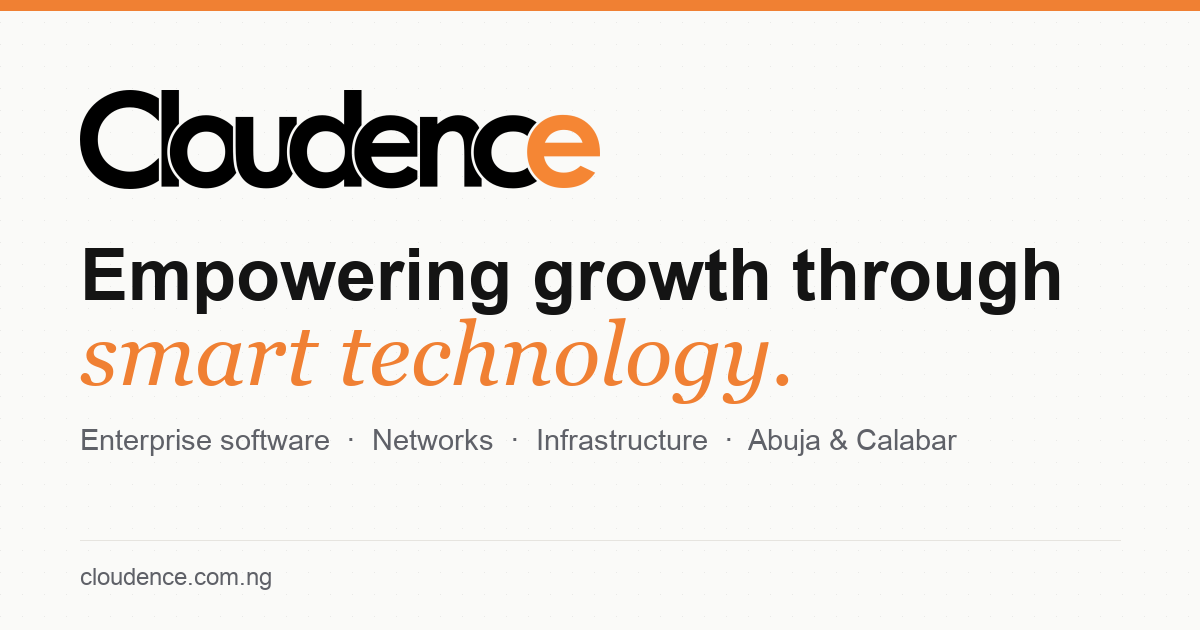
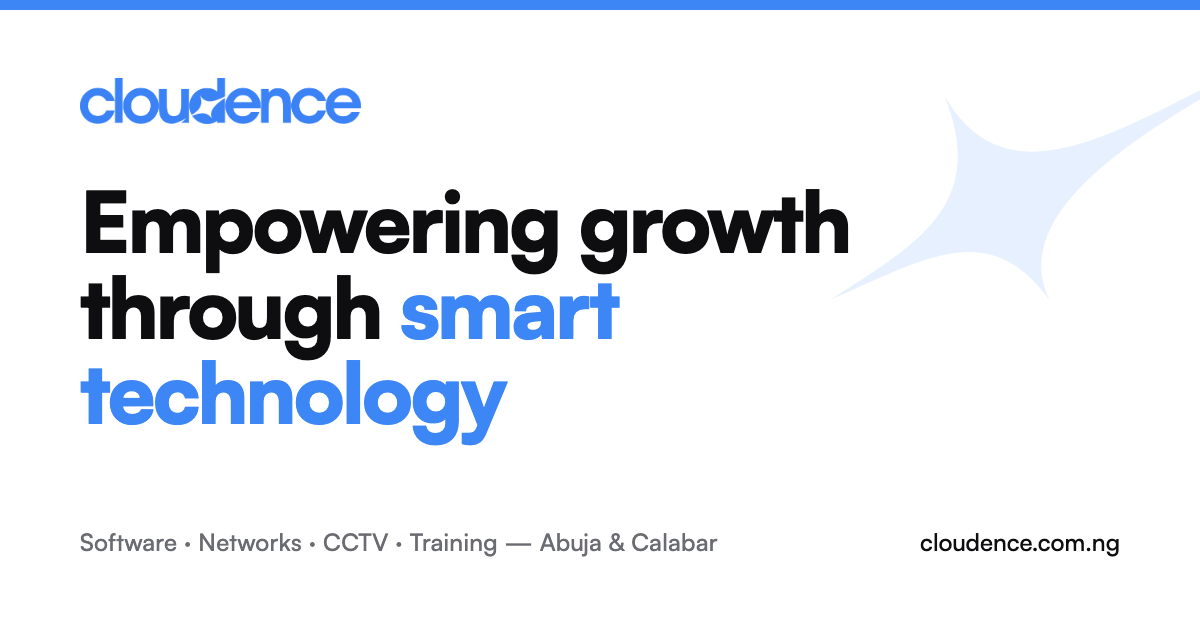
SEO: search titles, short descriptions, structured data, new share image
- Keyword-led titles and descriptions sized for search results on every page;
  optional seo_title / seo_description for news, meta_description for products
- Structured data: ProfessionalService per office, NewsArticle with breadcrumbs,
  news index as CollectionPage with ItemList
- og:type article for news, per-page share image alt, service photos as share images
- New 1200x630 default share image in the rebrand; theme colours updated
- Sitemap lastmod for news posts

diff --git a/config/news.php b/config/news.php
@@ -12,6 +12,8 @@
 |   'image'    Path under public/ (optional; posts without one get a branded panel)
 |   'excerpt'  One or two sentences for cards and search results
 |   'body'     Markdown
+|   'seo_title' / 'seo_description'  Optional shorter versions for search results
+|              (aim for under 60 and 155 characters)
 */
 
 return [
@@ -21,6 +23,8 @@ return [
         'date'     => '2025-08-18',
         'category' => 'Projects',
         'image'    => 'images/news/uee-cbt-lab.jpg',
+        'seo_title'       => 'UEE Akamkpa moves exams to CBT with Cloudence',
+        'seo_description' => 'Cloudence has deployed computer-based testing (CBT) for student examinations at the University of Education and Entrepreneurship, Akamkpa.',
         'excerpt'  => 'Students of the University of Education and Entrepreneurship, Akamkpa, now sit their examinations on computer, using a computer-based testing (CBT) system deployed by Cloudence in the university\'s ICT centre.',
         'body'     => <<<'MD'
 Cloudence has deployed computer-based testing (CBT) software for student examinations at the University of Education and Entrepreneurship (UEE), Akamkpa, Cross River State. Students now sit their examinations at workstations in the university's computer laboratory instead of on paper.
@@ -42,6 +46,8 @@ MD,
         'date'     => '2025-06-14',
         'category' => 'Projects',
         'image'    => 'images/news/uee-portal.jpg',
+        'seo_title'       => 'New UEE Akamkpa school portal by Cloudence',
+        'seo_description' => 'Cloudence and UEE\'s ICT Directorate deployed a school portal for admissions, course registration, fees and results at uee-akamkpa.edu.ng.',
         'excerpt'  => 'Working with the ICT Directorate of the University of Education and Entrepreneurship, Akamkpa, Cloudence has deployed a new school portal for admissions, registration, fees and results at uee-akamkpa.edu.ng.',
         'body'     => <<<'MD'
 Cloudence has partnered with the ICT Directorate of the University of Education and Entrepreneurship (UEE), Akamkpa, Cross River State, to design and deploy a new school portal for the institution. The portal is live at [www.uee-akamkpa.edu.ng](https://www.uee-akamkpa.edu.ng).
@@ -78,6 +84,8 @@ MD,
         'date'     => '2026-10-03',
         'category' => 'Products',
         'image'    => 'images/products/accountra/dashboard.webp',
+        'seo_title'       => 'Introducing Accountra: public-sector accounting',
+        'seo_description' => 'Accountra runs Treasury vouchers, votebook, cashbook, budget control and IPSAS cash-basis statements for ministries, agencies and councils.',
         'excerpt'  => 'Accountra keeps the books of a ministry, agency, tertiary institution or council: Treasury vouchers, votebook, cashbook, budget control, approvals and IPSAS cash-basis statements in one system.',
         'body'     => <<<'MD'
 Accountra, our public-sector accounting platform, now has its own page on this site. It keeps the books of a ministry, agency, tertiary institution or local government council, following the Treasury payment cycle from the moment a voucher is raised to the moment cash leaves the bank.
@@ -97,6 +105,7 @@ MD,
         'date'     => '2026-10-01',
         'category' => 'Products',
         'image'    => 'images/products/e-memo/dashboard.webp',
+        'seo_description' => 'E-Memo replaces paper memos in ministries and agencies: drafted on your letterhead, routed in order, numbered and traceable to every reader.',
         'excerpt'  => 'E-Memo replaces paper memos in ministries, agencies and institutions. Memos are drafted on your letterhead, routed through the proper offices in order, numbered at dispatch and traceable to every reader.',
         'body'     => <<<'MD'
 E-Memo, our electronic memo registry, now has its own page on this site. It replaces paper memos inside ministries, agencies and institutions while keeping the formality of the registry intact.

diff --git a/resources/views/pages/product.blade.php b/resources/views/pages/product.blade.php
@@ -1,7 +1,8 @@
 @extends('layouts.v3')
 
-@section('title', $product['name'] . ' — ' . $product['tagline'] . ' — Cloudence')
-@section('description', $product['description'])
+@section('title', $product['name'] . ' — ' . $product['blurb'] . ' | Cloudence')
+@section('og_image_alt', $product['name'] . ' — ' . $product['tagline'])
+@section('description', $product['meta_description'] ?? \Illuminate\Support\Str::limit($product['description'], 155))
 @if (!empty($product['shots'][0]['file']))
   @section('og_image', asset('images/products/' . $slug . '/' . $product['shots'][0]['file']))
 @endif
@@ -37,6 +38,8 @@
     ['support_agent', 'Supported after launch', 'A named contact, a response time in writing, and updates as your needs change.'],
   ];
 
+  $siteUrl  = $product['url'] ?? null;
+  $siteHost = $siteUrl ? preg_replace('#^https?://(www\.)?#', '', rtrim($siteUrl, '/')) : null;
   $arrow = '<svg class="h-3.5 w-3.5" fill="none" stroke="currentColor" stroke-linecap="round" stroke-linejoin="round" stroke-width="2.5" viewBox="0 0 24 24" aria-hidden="true"><line x1="7" x2="17" y1="17" y2="7"/><polyline points="7 7 17 7 17 17"/></svg>';
 @endphp
 
@@ -51,6 +54,7 @@
         'applicationCategory' => $product['schema_category'] ?? 'BusinessApplication',
         'operatingSystem'     => 'Web',
         'image'               => $hero ? $shot($hero['file']) : null,
+        'sameAs'              => $siteUrl,
         'provider'            => ['@id' => url('/') . '#organization'],
         'featureList'         => array_map(fn ($f) => $f[1], $product['features']),
       ])) !!}
@@ -103,8 +107,13 @@
     @endif
 
     <div class="mt-10 flex flex-wrap items-center gap-3">
-      <a href="{{ $waDemo }}" target="_blank" rel="noopener" class="v3-btn v3-btn-dark">Request a demo {!! $arrow !!}</a>
-      <a href="#features" class="v3-btn v3-btn-line">See what it does <span class="material-symbols-outlined text-[16px]">arrow_downward</span></a>
+      @if ($siteUrl)
+        <a href="{{ $siteUrl }}" target="_blank" rel="noopener" class="v3-btn v3-btn-dark">Visit {{ $siteHost }} {!! $arrow !!}</a>
+        <a href="{{ $waDemo }}" target="_blank" rel="noopener" class="v3-btn v3-btn-line">Request a demo {!! $arrow !!}</a>
+      @else
+        <a href="{{ $waDemo }}" target="_blank" rel="noopener" class="v3-btn v3-btn-dark">Request a demo {!! $arrow !!}</a>
+        <a href="#features" class="v3-btn v3-btn-line">See what it does <span class="material-symbols-outlined text-[16px]">arrow_downward</span></a>
+      @endif
     </div>
   </div>
 
@@ -421,8 +430,13 @@
         </p>
       </div>
       <div class="flex flex-wrap gap-3 lg:col-span-4 lg:justify-end">
-        <a href="{{ $waDemo }}" target="_blank" rel="noopener" class="v3-btn v3-btn-blue">Request a demo {!! $arrow !!}</a>
-        <a href="{{ url('/contact') }}" class="v3-btn border border-neutral-700 text-white hover:border-white">Contact us</a>
+        @if ($siteUrl)
+          <a href="{{ $siteUrl }}" target="_blank" rel="noopener" class="v3-btn v3-btn-blue">Visit {{ $siteHost }} {!! $arrow !!}</a>
+          <a href="{{ $waDemo }}" target="_blank" rel="noopener" class="v3-btn border border-neutral-700 text-white hover:border-white">Request a demo</a>
+        @else
+          <a href="{{ $waDemo }}" target="_blank" rel="noopener" class="v3-btn v3-btn-blue">Request a demo {!! $arrow !!}</a>
+          <a href="{{ url('/contact') }}" class="v3-btn border border-neutral-700 text-white hover:border-white">Contact us</a>
+        @endif
       </div>
     </div>
   </div>

diff --git a/config/products.php b/config/products.php
@@ -16,6 +16,7 @@
 | flow         — [title, body] steps
 | roles        — [icon, title, body]
 | faqs         — [question, answer]
+| meta_description — search-result snippet, under 155 characters
 |
 | Screens show demonstration data only. Never publish client data here.
 */
@@ -32,6 +33,7 @@ return [
         'address'         => 'memo.yourorganisation.gov.ng',
         'schema_category' => 'BusinessApplication',
         'description'     => 'E-Memo replaces paper memos in ministries, agencies and institutions. Draft on your letterhead, route through the proper chain of offices, and keep every minute, forward and read on the record.',
+        'meta_description' => 'E-Memo is an electronic memo registry for ministries and agencies: memos on your letterhead, routed in order, numbered and traceable to every reader.',
         'summary'         => 'Paper memos are slow, and once one leaves a desk nobody can say where it is. E-Memo puts the whole registry online: drafted on your letterhead, routed through the proper offices in order, numbered at dispatch and traceable to every reader.',
         'heading'         => 'Every memo numbered, routed',
         'accent'          => 'and accounted for.',
@@ -136,6 +138,7 @@ return [
         'address'         => 'accounts.yourorganisation.gov.ng',
         'schema_category' => 'FinanceApplication',
         'description'     => 'Accountra keeps the books of a ministry, agency, tertiary institution or local government council: Treasury vouchers, votebook, cashbook, budget control, approvals and IPSAS cash-basis statements in one system.',
+        'meta_description' => 'Accountra is public-sector accounting for Nigeria: Treasury vouchers, votebook, cashbook, budget control and IPSAS cash-basis statements in one system.',
         'summary'         => 'The votebook, the cashbook and the advance ledger were designed for paper, and paper cannot refuse an overspend. Accountra runs the whole Treasury payment cycle in one system, enforces the budget on every voucher and produces the statements auditors ask for.',
         'heading'         => 'The Treasury books,',
         'accent'          => 'kept by the system.',
@@ -232,9 +235,11 @@ return [
         'icon'            => 'chat',
         'blurb'           => 'WhatsApp marketing',
         'tagline'         => 'WhatsApp marketing from the number you already have',
+        'url'             => 'https://chatlify.xyz',
         'address'         => 'Chatlify',
         'schema_category' => 'BusinessApplication',
         'description'     => 'Chatlify is WhatsApp marketing for businesses that sell on WhatsApp. Post HD statuses to every contact, broadcast to groups and people at a pace that keeps the number safe, and let automations answer customers day and night.',
+        'meta_description' => 'Chatlify is WhatsApp marketing for businesses: HD statuses to every contact, safe broadcasts and automations that answer customers day and night.',
         'summary'         => 'A status posted from a phone reaches a few hundred contacts at best, and a customer who messages at 2am waits until morning. Chatlify links to the WhatsApp number a business already has and posts, broadcasts and replies for it, paced so the number stays safe.',
         'heading'         => 'Your WhatsApp,',
         'accent'          => 'selling while you sleep.',

diff --git a/app/Support/Seo.php b/app/Support/Seo.php
@@ -129,6 +129,54 @@ class Seo
         ]);
     }
 
+    /**
+     * One ProfessionalService per office, so each city can appear in local results.
+     * Linked to the Organization as departments/branches of the same company.
+     */
+    public static function offices(): string
+    {
+        $site = config('site');
+
+        return static::jsonLd(array_map(fn ($o) => [
+            '@context'           => 'https://schema.org',
+            '@type'              => 'ProfessionalService',
+            '@id'                => url('/') . '#office-' . \Illuminate\Support\Str::slug($o['city']),
+            'name'               => $site['name'] . ' ' . $o['city'],
+            'parentOrganization' => ['@id' => url('/') . '#organization'],
+            'url'                => url('/'),
+            'image'              => asset('images/og-default.png'),
+            'logo'               => asset('images/main/logo.png'),
+            'telephone'          => $o['phone'],
+            'email'              => $site['mail'],
+            'areaServed'         => ['@type' => 'Country', 'name' => 'Nigeria'],
+            'address'            => [
+                '@type'           => 'PostalAddress',
+                'streetAddress'   => $o['address'],
+                'addressLocality' => $o['city'],
+                'addressCountry'  => 'NG',
+            ],
+        ], $site['offices']));
+    }
+
+    /** NewsArticle for a post from App\Support\News::all(). */
+    public static function article(array $post): string
+    {
+        return static::jsonLd(array_filter([
+            '@context'         => 'https://schema.org',
+            '@type'            => 'NewsArticle',
+            'headline'         => \Illuminate\Support\Str::limit($post['title'], 110, ''),
+            'description'      => $post['excerpt'],
+            'image'            => [asset($post['image'] ?? 'images/og-default.png')],
+            'datePublished'    => $post['at']->toAtomString(),
+            'dateModified'     => $post['at']->toAtomString(),
+            'articleSection'   => $post['category'],
+            'author'           => ['@type' => 'Organization', 'name' => config('site.name'), 'url' => url('/')],
+            'publisher'        => ['@id' => url('/') . '#organization'],
+            'mainEntityOfPage' => $post['url'],
+            'isPartOf'         => ['@id' => url('/') . '#website'],
+        ]));
+    }
+
     public static function page(string $type, string $name, string $url, ?string $description = null): string
     {
         return static::jsonLd(array_filter([

diff --git a/resources/views/layouts/app.blade.php b/resources/views/layouts/app.blade.php
@@ -10,28 +10,35 @@
   $seoImage       = trim($__env->yieldContent('og_image', asset('images/og-default.png')));
   $seoCanonical   = trim($__env->yieldContent('canonical', url()->current()));
   $seoRobots      = trim($__env->yieldContent('robots', 'index, follow, max-image-preview:large'));
+  $seoType        = trim($__env->yieldContent('og_type', 'website'));
+  $seoImageAlt    = html_entity_decode(trim($__env->yieldContent('og_image_alt', config('site.name') . ' — ' . config('site.tagline'))), ENT_QUOTES | ENT_HTML5, 'UTF-8');
+  // The default card is drawn at 1200x630; page images have their own sizes, so only state them for the default.
+  $seoImageIsDefault = $seoImage === asset('images/og-default.png');
 @endphp
 <title>{{ $seoTitle }}</title>
 <meta name="description" content="{{ $seoDescription }}">
 <meta name="robots" content="{{ $seoRobots }}">
 <link rel="canonical" href="{{ $seoCanonical }}">
-<meta name="theme-color" content="#fbfaf7">
+<meta name="theme-color" content="#ffffff">
 <meta name="author" content="{{ config('site.legal') }}">
 
-<meta property="og:type" content="website">
+<meta property="og:type" content="{{ $seoType }}">
 <meta property="og:site_name" content="{{ config('site.name') }}">
 <meta property="og:locale" content="en_NG">
 <meta property="og:url" content="{{ $seoCanonical }}">
 <meta property="og:title" content="{{ $seoTitle }}">
 <meta property="og:description" content="{{ $seoDescription }}">
 <meta property="og:image" content="{{ $seoImage }}">
+@if ($seoImageIsDefault)
 <meta property="og:image:width" content="1200">
 <meta property="og:image:height" content="630">
-<meta property="og:image:alt" content="{{ config('site.name') }} — {{ config('site.tagline') }}">
+@endif
+<meta property="og:image:alt" content="{{ $seoImageAlt }}">
 <meta name="twitter:card" content="summary_large_image">
 <meta name="twitter:title" content="{{ $seoTitle }}">
 <meta name="twitter:description" content="{{ $seoDescription }}">
 <meta name="twitter:image" content="{{ $seoImage }}">
+<meta name="twitter:image:alt" content="{{ $seoImageAlt }}">
 
 <link rel="icon" href="{{ asset('favicon-32.png') }}" sizes="32x32" type="image/png">
 <link rel="icon" href="{{ asset('icon-192.png') }}" sizes="192x192" type="image/png">

diff --git a/routes/web.php b/routes/web.php
@@ -84,7 +84,7 @@ Route::get('/sitemap.xml', function () {
     }
     $urls[] = ['loc' => url('/news'), 'priority' => '0.7', 'changefreq' => 'weekly'];
     foreach (\App\Support\News::all() as $post) {
-        $urls[] = ['loc' => $post['url'], 'priority' => '0.6', 'changefreq' => 'yearly'];
+        $urls[] = ['loc' => $post['url'], 'priority' => '0.6', 'changefreq' => 'yearly', 'lastmod' => $post['at']->toDateString()];
     }
     $urls[] = ['loc' => url('/products'), 'priority' => '0.9', 'changefreq' => 'monthly'];
     foreach (array_keys(config('products', [])) as $slug) {
@@ -94,7 +94,8 @@ Route::get('/sitemap.xml', function () {
     $xml = '<?xml version="1.0" encoding="UTF-8"?>' . "\n"
          . '<urlset xmlns="http://www.sitemaps.org/schemas/sitemap/0.9">' . "\n";
     foreach ($urls as $u) {
-        $xml .= "  <url><loc>" . e($u['loc']) . "</loc><changefreq>{$u['changefreq']}</changefreq><priority>{$u['priority']}</priority></url>\n";
+        $lastmod = isset($u['lastmod']) ? "<lastmod>{$u['lastmod']}</lastmod>" : '';
+        $xml .= "  <url><loc>" . e($u['loc']) . "</loc>{$lastmod}<changefreq>{$u['changefreq']}</changefreq><priority>{$u['priority']}</priority></url>\n";
     }
     $xml .= '</urlset>';
 

diff --git a/resources/views/pages/news-post.blade.php b/resources/views/pages/news-post.blade.php
@@ -1,21 +1,18 @@
 @extends('layouts.v3')
 
-@section('title', $post['title'] . ' — Cloudence News')
-@section('description', $post['excerpt'])
+@section('title', $post['seo_title'] . ' | Cloudence News')
+@section('description', $post['seo_description'])
+@section('og_type', 'article')
+@section('og_image_alt', $post['title'])
 @if (!empty($post['image']))
   @section('og_image', asset($post['image']))
 @endif
 
 @push('head')
-  {!! \App\Support\Seo::jsonLd([
-    '@context' => 'https://schema.org',
-    '@type' => 'NewsArticle',
-    'headline' => $post['title'],
-    'description' => $post['excerpt'],
-    'datePublished' => $post['at']->toDateString(),
-    'publisher' => ['@type' => 'Organization', 'name' => config('site.legal')],
-    'mainEntityOfPage' => $post['url'],
-  ] + (!empty($post['image']) ? ['image' => asset($post['image'])] : [])) !!}
+  <meta property="article:published_time" content="{{ $post['at']->toAtomString() }}">
+  <meta property="article:section" content="{{ $post['category'] }}">
+  {!! \App\Support\Seo::article($post) !!}
+  {!! \App\Support\Seo::breadcrumbs([['Home', '/'], ['News', '/news'], [$post['title'], '/news/' . $post['slug']]]) !!}
 @endpush
 
 @section('page')

diff --git a/resources/views/pages/contact.blade.php b/resources/views/pages/contact.blade.php
@@ -1,9 +1,10 @@
 @extends('layouts.v3')
 
-@section('title', 'Contact — Cloudence')
-@section('description', 'Talk to Cloudence about software, networks or infrastructure. Offices in Abuja and Calabar. Call, email, message us on WhatsApp or send a brief through the form.')
+@section('title', 'Contact Cloudence | Abuja & Calabar Offices')
+@section('description', 'Talk to Cloudence about software, networks or infrastructure. Offices in Abuja and Calabar. Call, email, WhatsApp us or send a brief through the form.')
 
 @push('head')
+  {!! \App\Support\Seo::offices() !!}
   {!! \App\Support\Seo::breadcrumbs([['Home', '/'], ['Contact', '/contact']]) !!}
   {!! \App\Support\Seo::page('ContactPage', 'Contact Cloudence', '/contact', 'Call, email, WhatsApp or send a brief to Cloudence.') !!}
   <style>

diff --git a/resources/views/pages/news.blade.php b/resources/views/pages/news.blade.php
@@ -1,7 +1,13 @@
 @extends('layouts.v3')
 
-@section('title', 'News — Cloudence')
-@section('description', 'News and updates from Cloudence: projects, products, training and company announcements.')
+@section('title', 'News & updates | Cloudence')
+@section('description', 'News from Cloudence: projects delivered, products launched, training run and company announcements from our Abuja and Calabar teams.')
+
+@push('head')
+  {!! \App\Support\Seo::page('CollectionPage', 'Cloudence News', '/news', 'Projects, products, training and company announcements from Cloudence.') !!}
+  {!! \App\Support\Seo::breadcrumbs([['Home', '/'], ['News', '/news']]) !!}
+  {!! \App\Support\Seo::itemList($posts->map(fn ($p) => [$p['title'], '/news/' . $p['slug']])->values()->all()) !!}
+@endpush
 
 
 @section('page')

diff --git a/resources/views/pages/about.blade.php b/resources/views/pages/about.blade.php
@@ -1,7 +1,7 @@
 @extends('layouts.v3')
 
-@section('title', 'About Cloudence — Your digital partner to business growth')
-@section('description', 'Cloudence is an ICT company with offices in Abuja and Calabar, delivering enterprise software, networks and infrastructure for businesses and government institutions across Nigeria.')
+@section('title', 'About Cloudence | ICT Company in Abuja & Calabar')
+@section('description', 'Cloudence is an ICT company in Abuja and Calabar delivering enterprise software, networks and infrastructure for businesses and government across Nigeria.')
 
 @push('head')
   {!! \App\Support\Seo::breadcrumbs([['Home', '/'], ['About', '/about']]) !!}

diff --git a/resources/views/pages/industries.blade.php b/resources/views/pages/industries.blade.php
@@ -1,7 +1,7 @@
 @extends('layouts.v3')
 
-@section('title', 'Industries — Cloudence')
-@section('description', 'ICT solutions for government, education, healthcare, financial services, hospitality and media across Nigeria — software, networks and infrastructure shaped by the rules of each sector.')
+@section('title', 'ICT Solutions by Industry in Nigeria | Cloudence')
+@section('description', 'ICT solutions for government, education, healthcare, finance, hospitality and media in Nigeria, shaped by the rules of each sector.')
 
 @push('head')
   {!! \App\Support\Seo::breadcrumbs([['Home', '/'], ['Industries', '/industries']]) !!}

diff --git a/resources/views/pages/products.blade.php b/resources/views/pages/products.blade.php
@@ -1,7 +1,7 @@
 @extends('layouts.v3')
 
-@section('title', 'Products — Cloudence')
-@section('description', 'Software products built and run by Cloudence: ready-made platforms for government, finance and revenue collection, configured to your organisation and supported after launch.')
+@section('title', 'Software Products for Government & Business | Cloudence')
+@section('description', 'Ready-made platforms built and run by Cloudence: ' . collect(config('products'))->pluck('name')->join(', ', ' and ') . '. Configured to your organisation and supported after launch.')
 
 @php
   $products = config('products');
